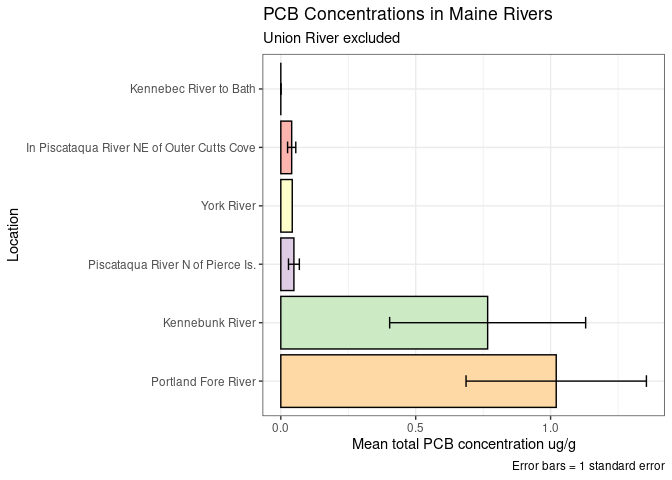
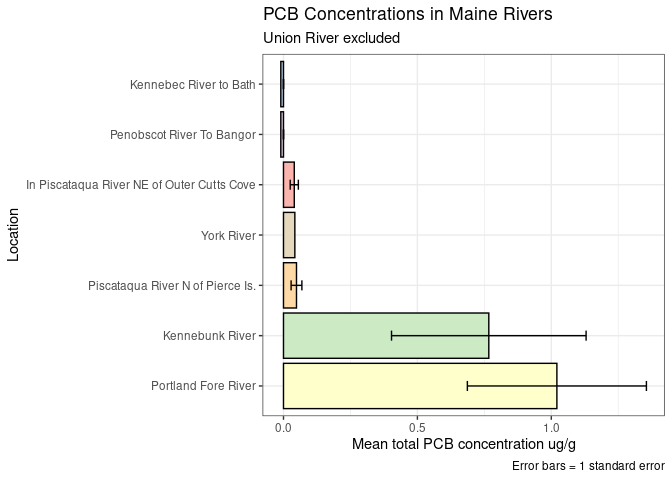
Adjust y axis to display 0 values below 0 on scale in river plots

diff --git a/analysis/PCBs.md b/analysis/PCBs.md
@@ -209,28 +209,29 @@ Sum_Org_site <- Organics %>%
     n_PCB_T = n(),
     SE_PCB_T = sd(PCB_T_UGG) / sqrt(n()))
 
-Sum_Org_site
+Sum_Org_site %>%
+  distinct(site)
 ```
 
-    ## # A tibble: 190 × 5
-    ##    site                           mean_PCB_T sd_PCB_T n_PCB_T SE_PCB_T
-    ##    <chr>                               <dbl>    <dbl>   <int>    <dbl>
-    ##  1 1-U.S. GypsumCo.200TerminalSt.     1.5     NA            1  NA     
-    ##  2 2-U.S. GypsumCo.200TerminalSt.     1.1     NA            1  NA     
-    ##  3 3-U.S. GypsumCo.200TerminalSt.     0.8     NA            1  NA     
-    ##  4 4-U.S. GypsumCo.200TerminalSt.     0.2     NA            1  NA     
-    ##  5 BASS RIVER                         1.97     1.70         3   0.980 
-    ##  6 BEVERLY HARBOR                     0       NA            1  NA     
-    ##  7 BIH                                5.10    20.0         37   3.29  
-    ##  8 BOI                                0.116    0.0396       8   0.014 
-    ##  9 BOSTON HARBOR                      0.0809   0.0495       4   0.0247
-    ## 10 BOSTON HARBOR MARINA               0        0            2   0     
+    ## # A tibble: 190 × 1
+    ##    site                          
+    ##    <chr>                         
+    ##  1 1-U.S. GypsumCo.200TerminalSt.
+    ##  2 2-U.S. GypsumCo.200TerminalSt.
+    ##  3 3-U.S. GypsumCo.200TerminalSt.
+    ##  4 4-U.S. GypsumCo.200TerminalSt.
+    ##  5 BASS RIVER                    
+    ##  6 BEVERLY HARBOR                
+    ##  7 BIH                           
+    ##  8 BOI                           
+    ##  9 BOSTON HARBOR                 
+    ## 10 BOSTON HARBOR MARINA          
     ## # ℹ 180 more rows
 
 ``` r
 Sum_Org_site %>%
-  filter(site %in% c("In Piscataqua River NE of Outer Cutts Cove", "Piscataqua River N of Pierce Is.","York River", "Kennebunk River", "Portland Fore River", "Kennebec River to Bath", "Penobscot River to Bangor")) %>%
-  ggplot(aes(x = fct_rev(fct_reorder(site, mean_PCB_T)), y = mean_PCB_T, fill = site))+
+  filter(site %in% c("In Piscataqua River NE of Outer Cutts Cove", "Piscataqua River N of Pierce Is.","York River", "Kennebunk River", "Portland Fore River", "Kennebec River to Bath", "Penobscot River To Bangor")) %>%
+  ggplot(aes(x = fct_rev(fct_reorder(site, mean_PCB_T)), y = sapply(mean_PCB_T, FUN=function(x) ifelse(x==0.000000e0, -0.01,x) ), fill = site))+
   geom_bar(stat="identity", col = "black")+
   scale_x_discrete(drop=FALSE)+
   geom_errorbar(aes(ymin = mean_PCB_T - SE_PCB_T, ymax = mean_PCB_T + SE_PCB_T), width = 0.2)+
@@ -257,11 +258,11 @@ into one category, so that there is only one bar in these plots.
 
 ``` r
 Sum_Org_site %>%
-  filter(site %in% c("In Piscataqua River NE of Outer Cutts Cove", "Piscataqua River N of Pierce Is.","York River", "Kennebunk River", "Portland Fore River", "Kennebec River to Bath", "Penobscot River to Bangor", "Union River")) %>%
-  ggplot(aes(x = fct_rev(fct_reorder(site, mean_PCB_T)), y = mean_PCB_T, fill = site))+
+  filter(site %in% c("In Piscataqua River NE of Outer Cutts Cove", "Piscataqua River N of Pierce Is.","York River", "Kennebunk River", "Portland Fore River", "Kennebec River to Bath", "Penobscot River To Bangor", "Union River")) %>%
+  ggplot(aes(x = fct_rev(fct_reorder(site, mean_PCB_T)), y = sapply(mean_PCB_T, FUN=function(x) ifelse(x==0.000000e0, -2,x)), fill = site))+
   geom_col(col = "black")+
   geom_errorbar(aes(ymin = mean_PCB_T - SE_PCB_T, ymax = mean_PCB_T + SE_PCB_T), width = 0.2)+
-  scale_fill_manual(values = c("gray50", "gray50", "gray50", "gray50", "gray50", "firebrick2", "gray50"))+
+  scale_fill_manual(values = c("gray50", "skyblue", "skyblue", "gray50", "gray50", "gray50", "chocolate1", "gray50"))+
   theme_bw()+
   coord_flip()+
   theme(legend.position = "none")+
